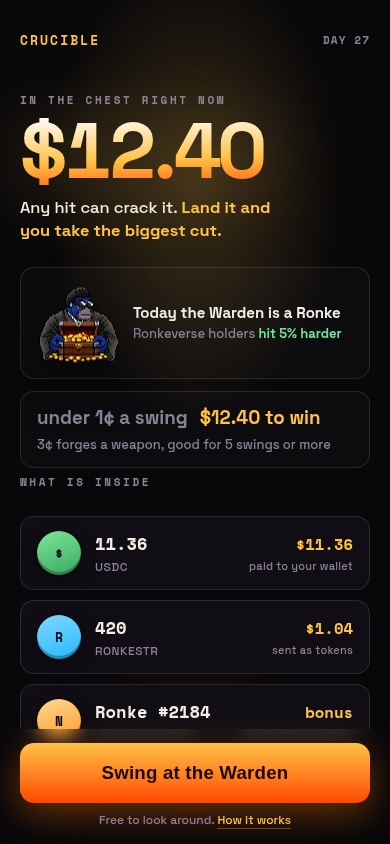
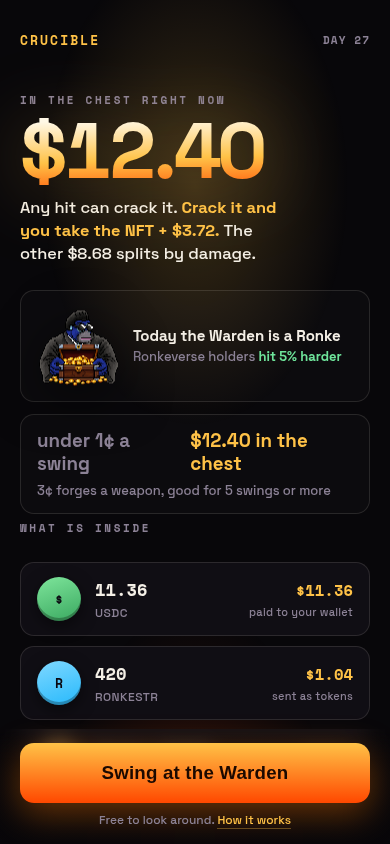
mockups: fix B mobile CTA below fold, correct misleading payout claims (cracker gets 30%+NFT not full pot)

diff --git a/mockups/frontdoor/b-fightbill.html b/mockups/frontdoor/b-fightbill.html
@@ -37,17 +37,17 @@ img{image-rendering:pixelated}
 .date{font-size:11px;font-weight:700;letter-spacing:.16em;text-transform:uppercase;color:var(--ink2)}
 
 /* ---------- the bout ---------- */
-.bout{padding:min(5vh,34px) 0;display:grid;gap:0;align-content:center}
+.bout{padding:min(2.4vh,16px) 0;display:grid;gap:0;align-content:center}
 
 .tonight{font-size:12px;font-weight:900;letter-spacing:.32em;text-transform:uppercase;color:var(--accent)}
 
 .name{font-family:Anton,Impact,sans-serif;text-transform:uppercase;
-  font-size:clamp(70px,21.5vw,196px);line-height:.84;letter-spacing:-.012em;
-  margin:16px 0 0;position:relative}
+  font-size:clamp(50px,15vw,196px);line-height:.84;letter-spacing:-.012em;
+  margin:11px 0 0;position:relative}
 .name span{display:block}
 .name .rot{transform:rotate(-2.4deg);transform-origin:left center}
 
-.portrait{width:clamp(150px,44vw,300px);display:block;margin:-6px 0 0 auto;
+.portrait{width:clamp(126px,33vw,300px);display:block;margin:-2px 0 0 auto;
   filter:drop-shadow(0 16px 0 rgba(20,17,16,.14));
   animation:sway 4s ease-in-out infinite}
 @keyframes sway{0%,100%{transform:rotate(-1.5deg)}50%{transform:rotate(1.5deg)}}
@@ -58,29 +58,29 @@ img{image-rendering:pixelated}
 
 /* ---------- purse ---------- */
 .purse{border-top:3px solid var(--ink);border-bottom:3px solid var(--ink);
-  margin-top:22px;padding:16px 0;display:grid;grid-template-columns:auto 1fr;
+  margin-top:13px;padding:11px 0;display:grid;grid-template-columns:auto 1fr;
   align-items:center;gap:16px}
 .purse .lab{font-size:12px;font-weight:900;letter-spacing:.24em;text-transform:uppercase;
   writing-mode:vertical-rl;transform:rotate(180deg);color:var(--ink2);justify-self:start}
-.purse .fig{font-family:Anton,Impact,sans-serif;font-size:clamp(56px,17vw,132px);
+.purse .fig{font-family:Anton,Impact,sans-serif;font-size:clamp(44px,12.5vw,132px);
   line-height:.82;letter-spacing:-.02em;color:var(--accent);font-variant-numeric:tabular-nums}
 .purse .cond{font-size:clamp(12px,3.4vw,15px);font-weight:700;margin-top:7px;line-height:1.45;max-width:34ch}
 
 /* ---------- terms ---------- */
-.terms{display:grid;grid-template-columns:1fr 1fr;gap:0;margin-top:20px;
+.terms{display:grid;grid-template-columns:1fr 1fr;gap:0;margin-top:13px;
   border:2px solid var(--ink)}
-.term{padding:15px 14px}
+.term{padding:11px 12px}
 .term + .term{border-left:2px solid var(--ink)}
 .term dt{font-size:10px;font-weight:900;letter-spacing:.2em;text-transform:uppercase;color:var(--ink2)}
-.term dd{font-family:Anton,Impact,sans-serif;font-size:clamp(26px,7.5vw,42px);
+.term dd{font-family:Anton,Impact,sans-serif;font-size:clamp(22px,6vw,42px);
   line-height:1;margin-top:7px}
 .term .fine{font-size:11px;font-weight:700;color:var(--ink2);margin-top:7px;line-height:1.35}
 
 /* ---------- CTA ---------- */
-.foot{padding-top:20px}
+.foot{padding-top:13px}
 .enter{display:block;width:100%;border:0;cursor:pointer;background:var(--accent);color:var(--paper);
   font-family:Anton,Impact,sans-serif;text-transform:uppercase;letter-spacing:.05em;
-  font-size:clamp(24px,7vw,38px);padding:20px 18px;line-height:1;
+  font-size:clamp(22px,6.4vw,38px);padding:16px 18px;line-height:1;
   box-shadow:7px 7px 0 var(--ink);
   transition:transform .1s cubic-bezier(.16,1,.3,1),box-shadow .1s}
 .enter:hover{transform:translate(-2px,-2px);box-shadow:9px 9px 0 var(--ink)}
@@ -135,13 +135,13 @@ img{image-rendering:pixelated}
       <div class="lab">Purse</div>
       <div>
         <div class="fig">$12.40</div>
-        <p class="cond">Any hit can crack it open. Whoever lands it takes the biggest cut, everyone who did damage splits the rest.</p>
+        <p class="cond">Any hit can crack it open. 4 fighters in today.</p>
       </div>
     </section>
 
     <dl class="terms">
       <div class="term"><dt>Costs you</dt><dd>Under 1&cent;</dd><p class="fine">per swing. 3&cent; forges a weapon, good for 5 swings or more.</p></div>
-      <div class="term"><dt>Pays out</dt><dd>$12.40</dd><p class="fine">to whoever cracks it, and everyone who did damage.</p></div>
+      <div class="term"><dt>Pays out</dt><dd>$12.40</dd><p class="fine">$3.72 + the NFT to whoever cracks it. $8.68 splits by damage.</p></div>
     </dl>
   </main>
 

diff --git a/mockups/frontdoor/c-loot.html b/mockups/frontdoor/c-loot.html
@@ -130,7 +130,7 @@ img{image-rendering:pixelated}
     <section class="hero">
       <p class="label">In the chest right now</p>
       <div class="total">$12.40</div>
-      <p class="cond">Any hit can crack it. <b>Land it and you take the biggest cut.</b></p>
+      <p class="cond">Any hit can crack it. <b>Crack it and you take the NFT + $3.72.</b> The other $8.68 splits by damage.</p>
 
       <div class="rows">
         <div class="row">
@@ -141,7 +141,7 @@ img{image-rendering:pixelated}
           </div>
         </div>
         <div class="row" style="display:block">
-          <div class="price"><span class="a">under 1&cent; a swing</span><span class="b">$12.40 to win</span></div>
+          <div class="price"><span class="a">under 1&cent; a swing</span><span class="b">$12.40 in the chest</span></div>
           <div class="s" style="margin-top:7px">3&cent; forges a weapon, good for 5 swings or more</div>
         </div>
       </div>

diff --git a/mockups/frontdoor/d-poster.html b/mockups/frontdoor/d-poster.html
@@ -148,7 +148,7 @@ img{image-rendering:pixelated}
     <section class="purse">
       <span class="plab">Purse</span>
       <span class="pfig">$12.40</span>
-      <p class="pcond">Any hit can crack it open.</p>
+      <p class="pcond">Any hit can crack it open. Cracker takes the NFT + $3.72, the other $8.68 splits by damage. 4 fighters in today.</p>
     </section>
 
     <section class="loot">
